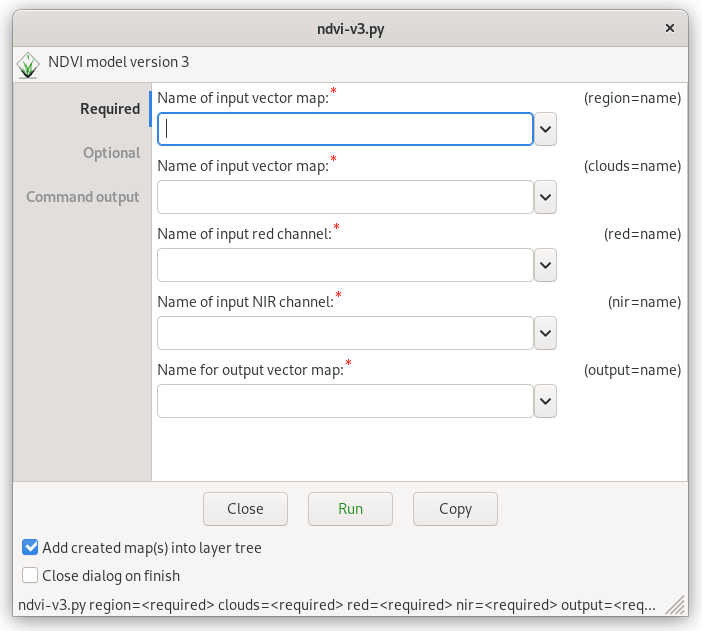
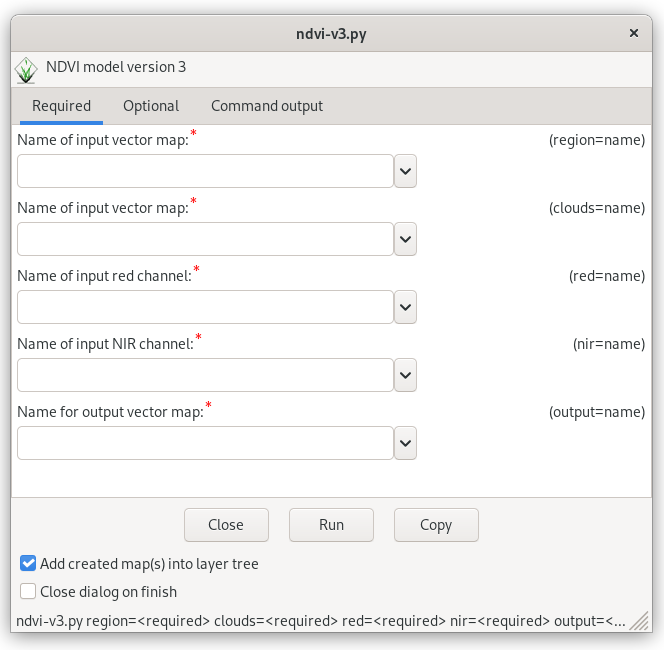
u12 updated to grass8

diff --git a/units/12.rst b/units/12.rst
@@ -4,28 +4,28 @@ Unit 12 - Script User Interface
 Standard input
 --------------
 
-There is a clear issue related to the script from :doc:`11`. Some
-modules (:grasscmd:`r.recode`, :grasscmd:`r.colors`) use hardcoded
-paths to the input files. See code below (:option:`rules` option).
+In the script prepared in :doc:`11` some tools (:grasscmd:`r.recode`,
+:grasscmd:`r.colors`) use hardcoded paths to the input files. See code
+below (:option:`rules` option):
 
 .. literalinclude:: ../_static/scripts/ndvi-v2.py
    :language: python
-   :lines:  60-68
+   :lines: 72-80
 
-By PyGRASS a content of input file can be defined as a string object
-and transfered to the command via standard input (``stdin_``). See
-a sample code below.
+Content of input files can be defined as a string object and transfered
+to the command via standard input (``stdin_``). See a sample code
+below:
 
 .. literalinclude:: ../_static/scripts/ndvi-v3.py
    :language: python
    :lines:  90-100
 
 Note that many of GRASS modules allows sending data via standard input
-by option value ``-`` (dash). In our case the both commands with
-``rules=-`` option.
+by option value ``-`` (dash). In our case the both commands will be
+changed to use ``rules="-"`` syntax.
 
-.. tip:: Cleanup routine which removes intermediate data by
-   :grasscmd:`g.remove` can be also defined.
+.. task:: Define a cleanup routine to remove intermediate data by
+   :grasscmd:`g.remove` tool.
                    
    .. code-block:: python
 
@@ -35,29 +35,18 @@ by option value ``-`` (dash). In our case the both commands with
 User interface (UI)
 -------------------
 
-The script lacks user input, all input paramaters are
-hardcoded. Remember a first modification of the script generated by
-Graphical Modeler in :doc:`11`.
+Let's improve UI generated by Graphical Modeler in :doc:`10`.
 
-At first add previously removed lines back to the script.
-
-.. code-block:: python
-
-   #%module
-   #% description: NDVI model version 2
-   #%end                
-
-With these lines included a magic will happen, a standardized GUI
-dialog appears. Since only module description was defined and no
-parameters, the dialog offers only global flags like
-:param:`--verbose` or :param:`--quiet`.
+.. literalinclude:: ../_static/scripts/ndvi-v2.py
+   :language: python
+   :lines:  15-25
 
 .. figure:: ../images/units/12/ndvi-dialog.png
    :class: small
       
-   Automatically generated GUI dialog.
+   Generated GUI dialog with ``voverlay1_ainput`` option.
 
-Let's define parameters below:
+Let's change UI by defining parameters below:
 
 * ``region``: vector map defining a computation region (required)
 * ``clouds``: vector map with cloud mask features (required)
@@ -80,23 +69,25 @@ In the script input parameters are still hardcoded, eg.
 
 .. literalinclude:: ../_static/scripts/ndvi-v2.py
    :language: python
-   :lines:  28-30
+   :lines: 40-45
+   :emphasize-lines: 6
 
-The input parameters are accesible by ``options`` and ``flags``
+Input parameters are accesible by ``options`` and ``flags``
 objects which are generated by ``parse()`` function.
 
 .. literalinclude:: ../_static/scripts/ndvi-v2.py
    :language: python
-   :lines:  121
+   :lines:  133
 
-Options and flags are dictionaries, where parameters are accessible by
-option keys, see example below.
+Options and flags objects are Python dictionaries, where parameters are
+accessible by keys, see example below.
 
 .. literalinclude:: ../_static/scripts/ndvi-v3.py
    :language: python
-   :lines:  58-60
-
-.. note:: All generated (intermediate) maps can be removed when
+   :lines:  58-63
+   :emphasize-lines: 3, 6
+                     
+.. task:: All generated (intermediate) maps can be removed when
    computation finished.
 
    .. literalinclude:: ../_static/scripts/ndvi-v3.py
